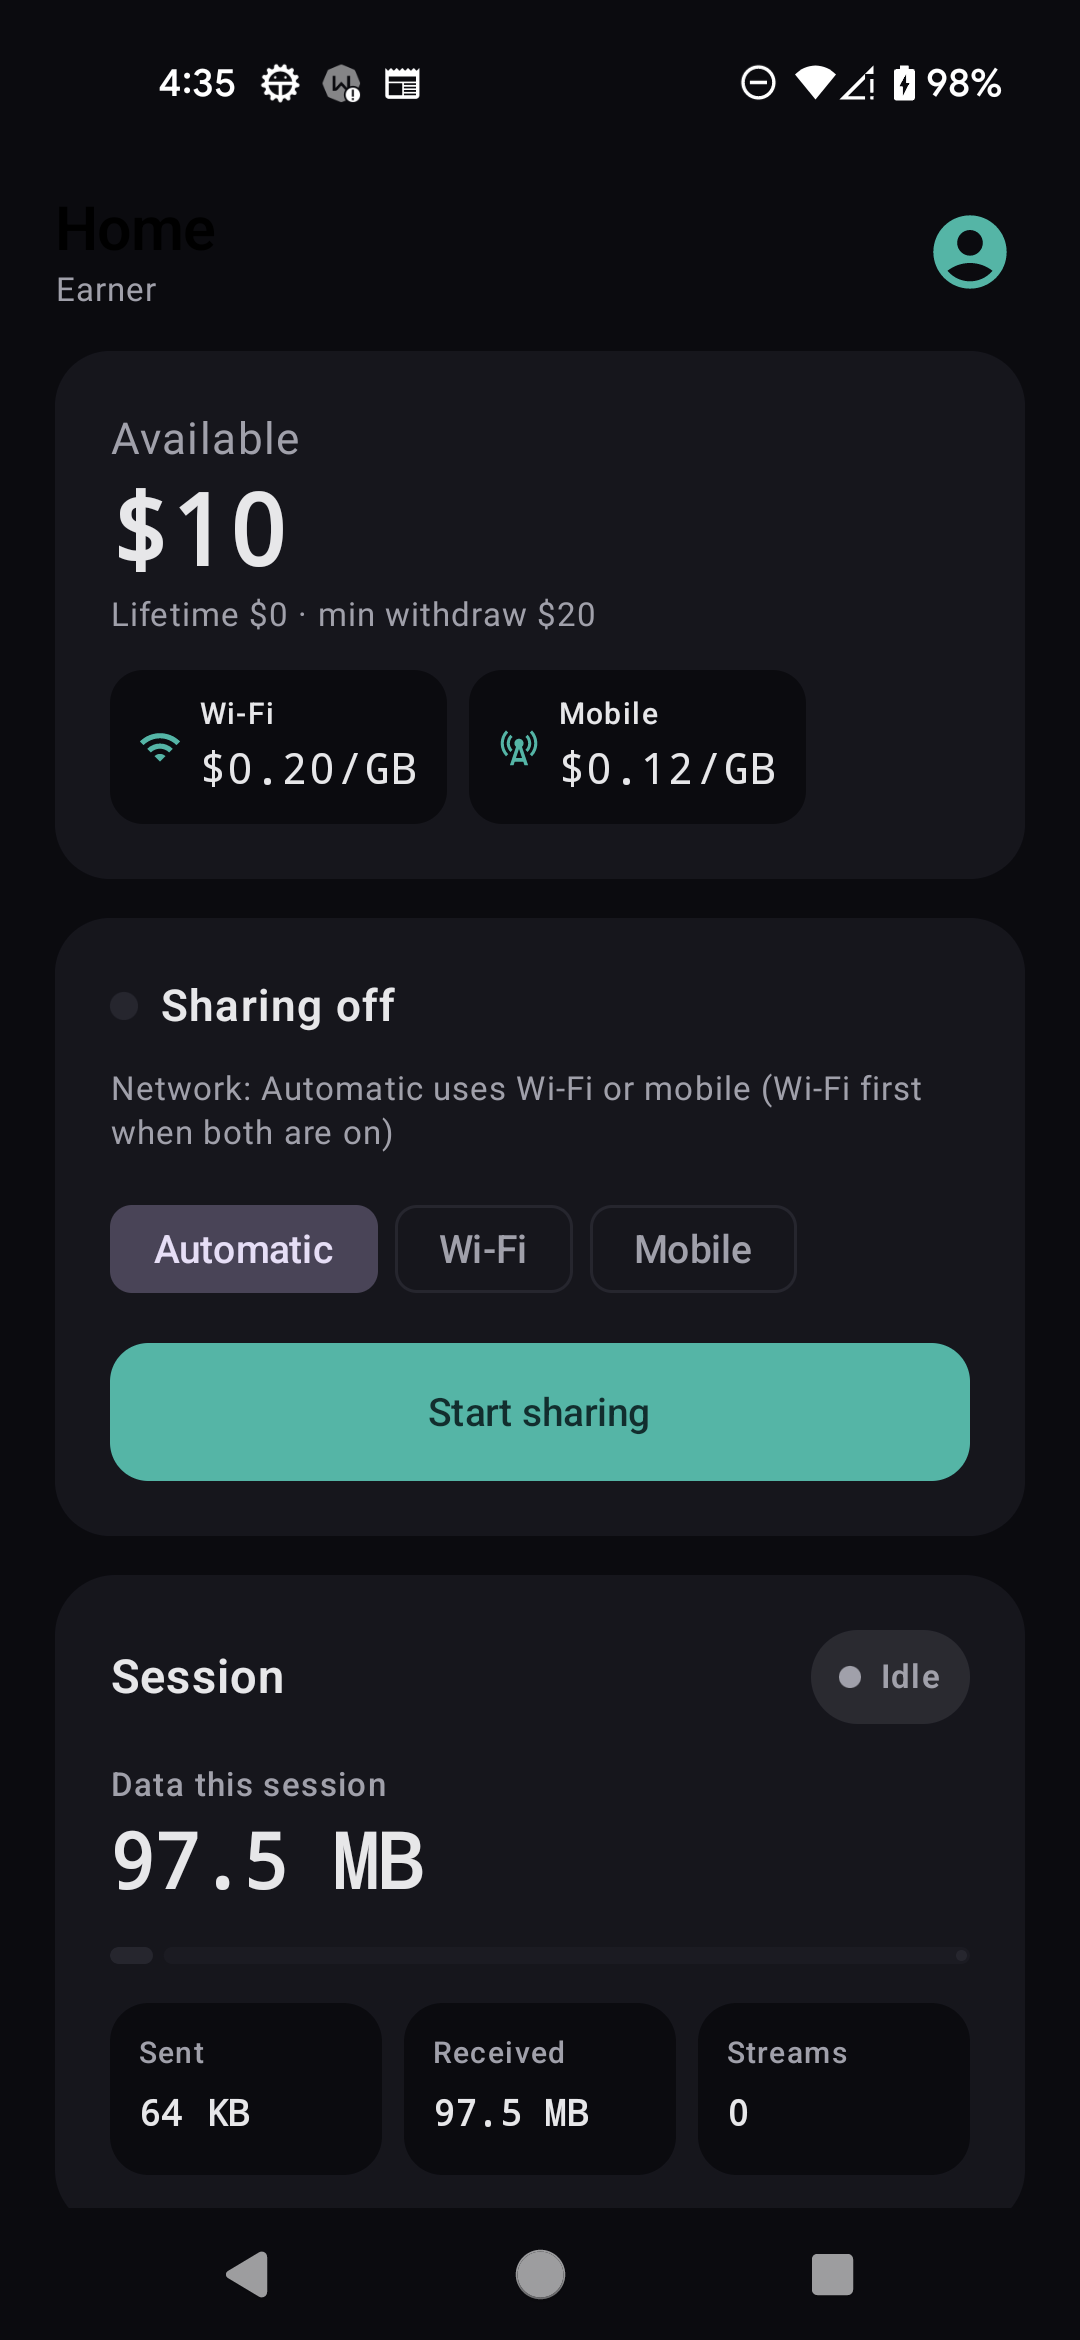
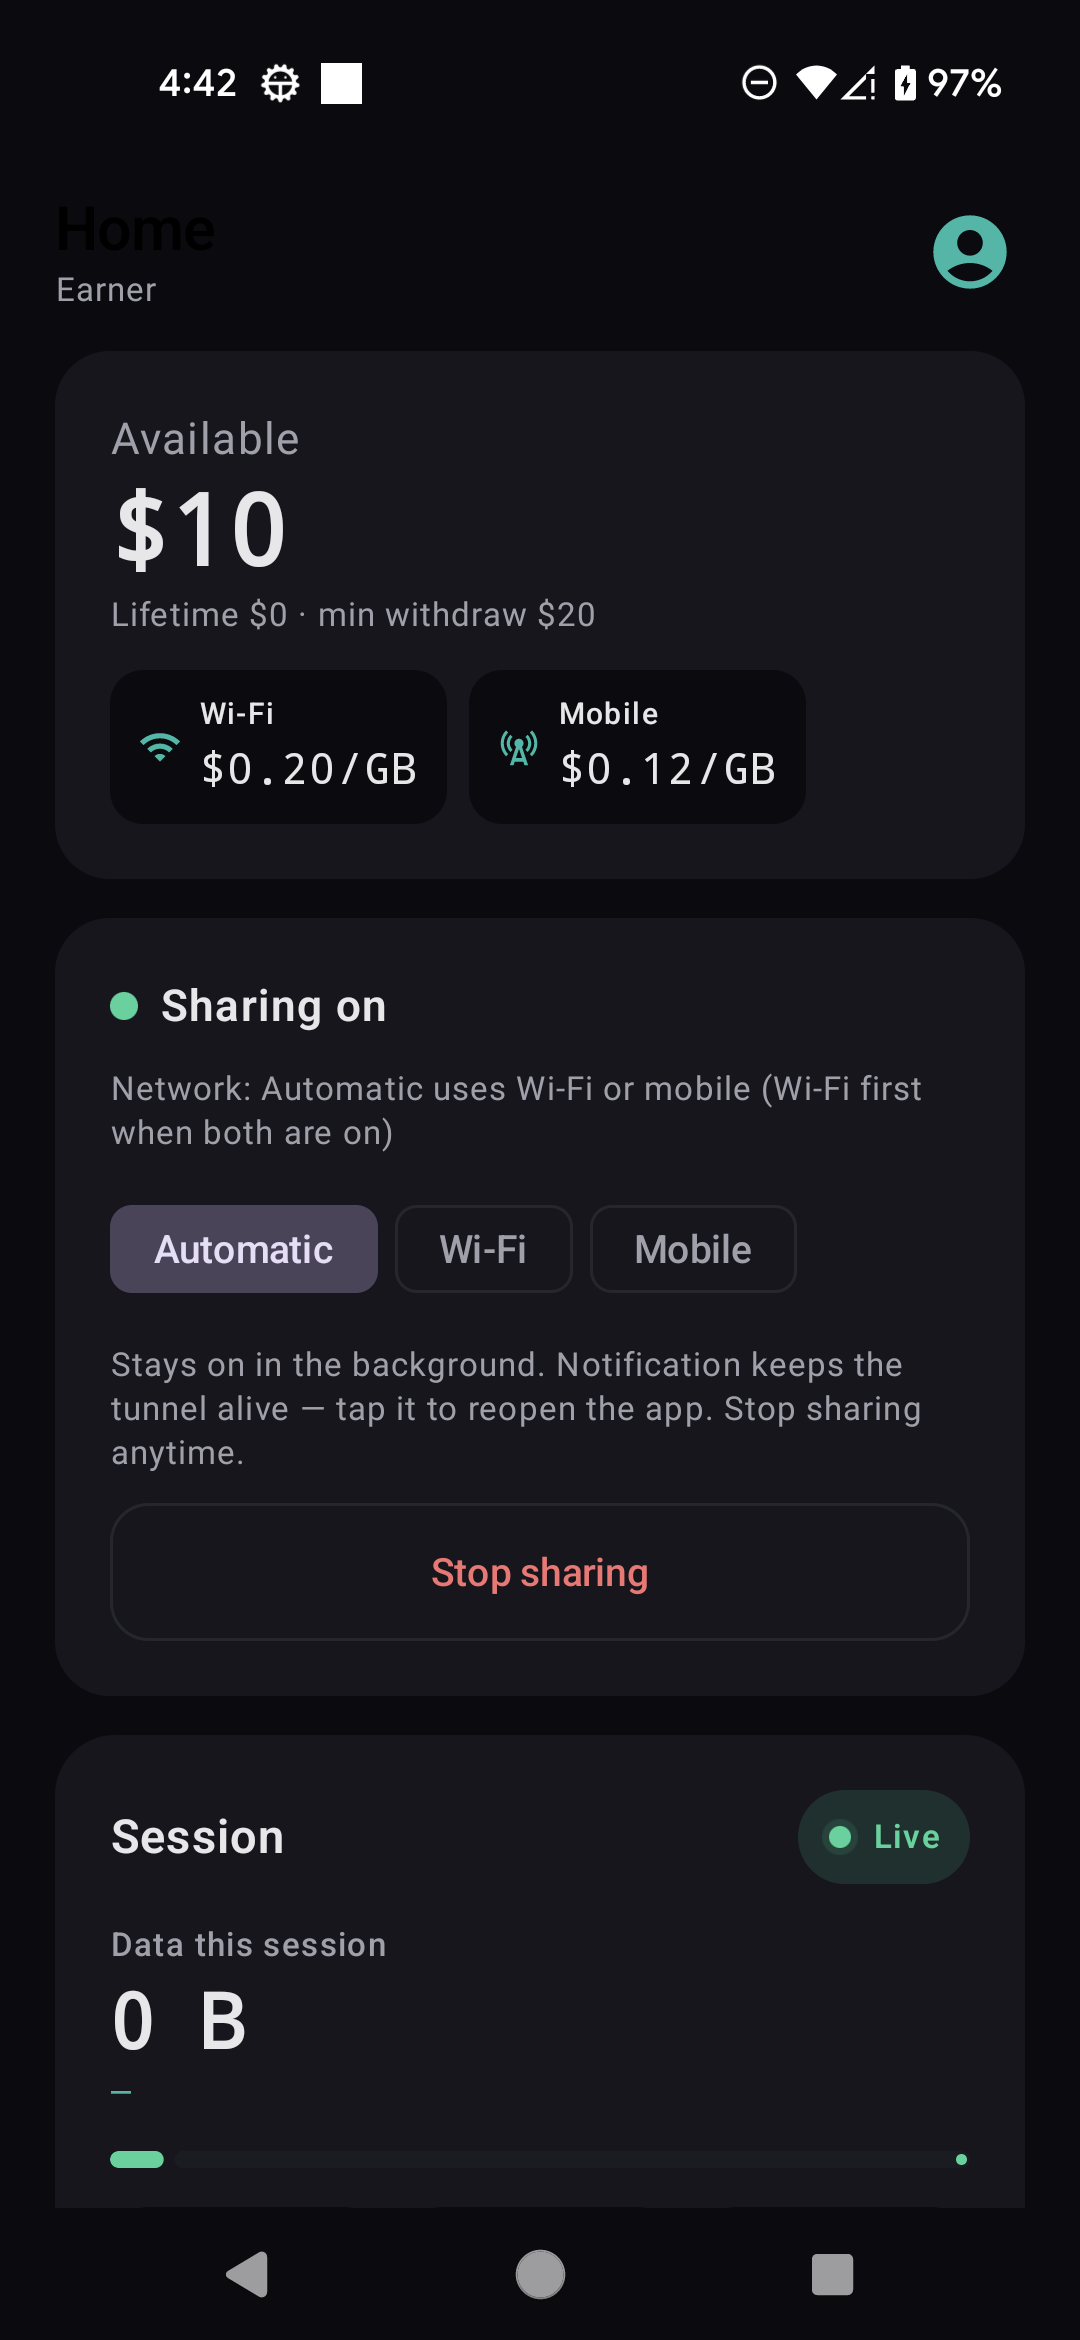
Use demo phone +15550100001 on marketing app screenshots.
Replace personal earner number in login/account gallery images and
demo data; refresh home/sharing captures for the site hero and /app.

diff --git a/src/components/earner/app-preview-page.tsx b/src/components/earner/app-preview-page.tsx
@@ -13,9 +13,10 @@ import { Badge, Button, SectionLabel } from "@/components/ui/primitives";
 import { PRICING, moneyFromCents } from "@/data/pricing";
 import { cn } from "@/lib/utils";
 
-/** Real Android screenshots (redesigned Compose home — not mock UI). */
+/** Android screenshots for marketing (demo phone only — never a real earner number). */
 // Cache-bust when marketing PNGs are replaced
-const V = "v4";
+const V = "v5";
+const DEMO_PHONE = "+15550100001";
 const SHOTS = [
   {
     src: `/app/00-consent.png?${V}`,
@@ -25,27 +26,27 @@ const SHOTS = [
   {
     src: `/app/01-login.png?${V}`,
     title: "Phone OTP",
-    caption: "Sign in with SMS one-time code (Twilio). Same account as the web dashboard.",
+    caption: `Demo login uses Play review phone ${DEMO_PHONE} (fixed OTP in App access notes) — not a personal number.`,
   },
   {
     src: `/app/02-home.png?${V}`,
-    title: "Home · redesigned",
-    caption: `Balance, Wi‑Fi ${PRICING.headlineRateLabel} / mobile ${PRICING.mobileRateLabel}, Automatic · Wi‑Fi · Mobile, session card.`,
+    title: "Home · sharing on",
+    caption: `Balance, rates (${PRICING.headlineRateLabel} / ${PRICING.mobileRateLabel}), Automatic · Wi‑Fi · Mobile, Live session.`,
   },
   {
     src: `/app/03-sharing.png?${V}`,
-    title: "Home · session",
-    caption: "Session totals (sent / received / streams). Exit IP is last on the card when online.",
+    title: "Session · exit IP",
+    caption: "Session card with sent/received/streams and Exit IP when online.",
   },
   {
     src: `/app/04-agent-traffic.png?${V}`,
     title: "Earner home",
-    caption: "Same redesigned home used on the marketing hero — real device capture.",
+    caption: "Marketing hero shot — redesigned home while sharing.",
   },
   {
-    src: `/app/05-oneplus-sharing.png?${V}`,
-    title: "Phone build",
-    caption: "Production-shaped Compose client on physical devices (Pixel / OnePlus).",
+    src: `/app/06-account.png?${V}`,
+    title: "Account",
+    caption: `Profile, support, logout, delete — demo account ${DEMO_PHONE}.`,
   },
 ] as const;
 

diff --git a/src/data/demo.ts b/src/data/demo.ts
@@ -111,18 +111,18 @@ export const ADMIN_KPIS = [
 
 export const ADMIN_USERS = [
   {
-    phone: "+37368182830",
-    name: "Earner",
-    country: "MD",
+    phone: "+15550100001",
+    name: "Play Reviewer A",
+    country: "US",
     devices: 1,
     status: "active" as const,
     balance: 0,
     lifetime: 0,
   },
   {
-    phone: "+373 60 123 456",
-    name: "Alex M.",
-    country: "MD",
+    phone: "+15550100002",
+    name: "Play Reviewer B",
+    country: "US",
     devices: 2,
     status: "active" as const,
     balance: 1420,

diff --git a/src/components/marketing/landing.tsx b/src/components/marketing/landing.tsx
@@ -527,7 +527,7 @@ function PhonePreview() {
     <div className="w-full max-w-[280px]">
       <div className="overflow-hidden rounded-[1.75rem] border border-border-strong bg-black phone-shadow shadow-2xl shadow-black/40">
         <img
-          src="/app/02-home.png?v4"
+          src="/app/02-home.png?v5"
           alt="BusyProxy Android app — redesigned home with balance, network modes, and session"
           className="block h-auto w-full"
           width={1080}

diff --git a/src/routes/app.tsx b/src/routes/app.tsx
@@ -29,7 +29,7 @@ export const Route = createFileRoute("/app")({
       },
       {
         property: "og:image",
-        content: "https://busyproxy.net/app/02-home.png",
+        content: "https://busyproxy.net/app/02-home.png?v5",
       },
     ],
     links: [{ rel: "canonical", href: "https://busyproxy.net/app" }],
